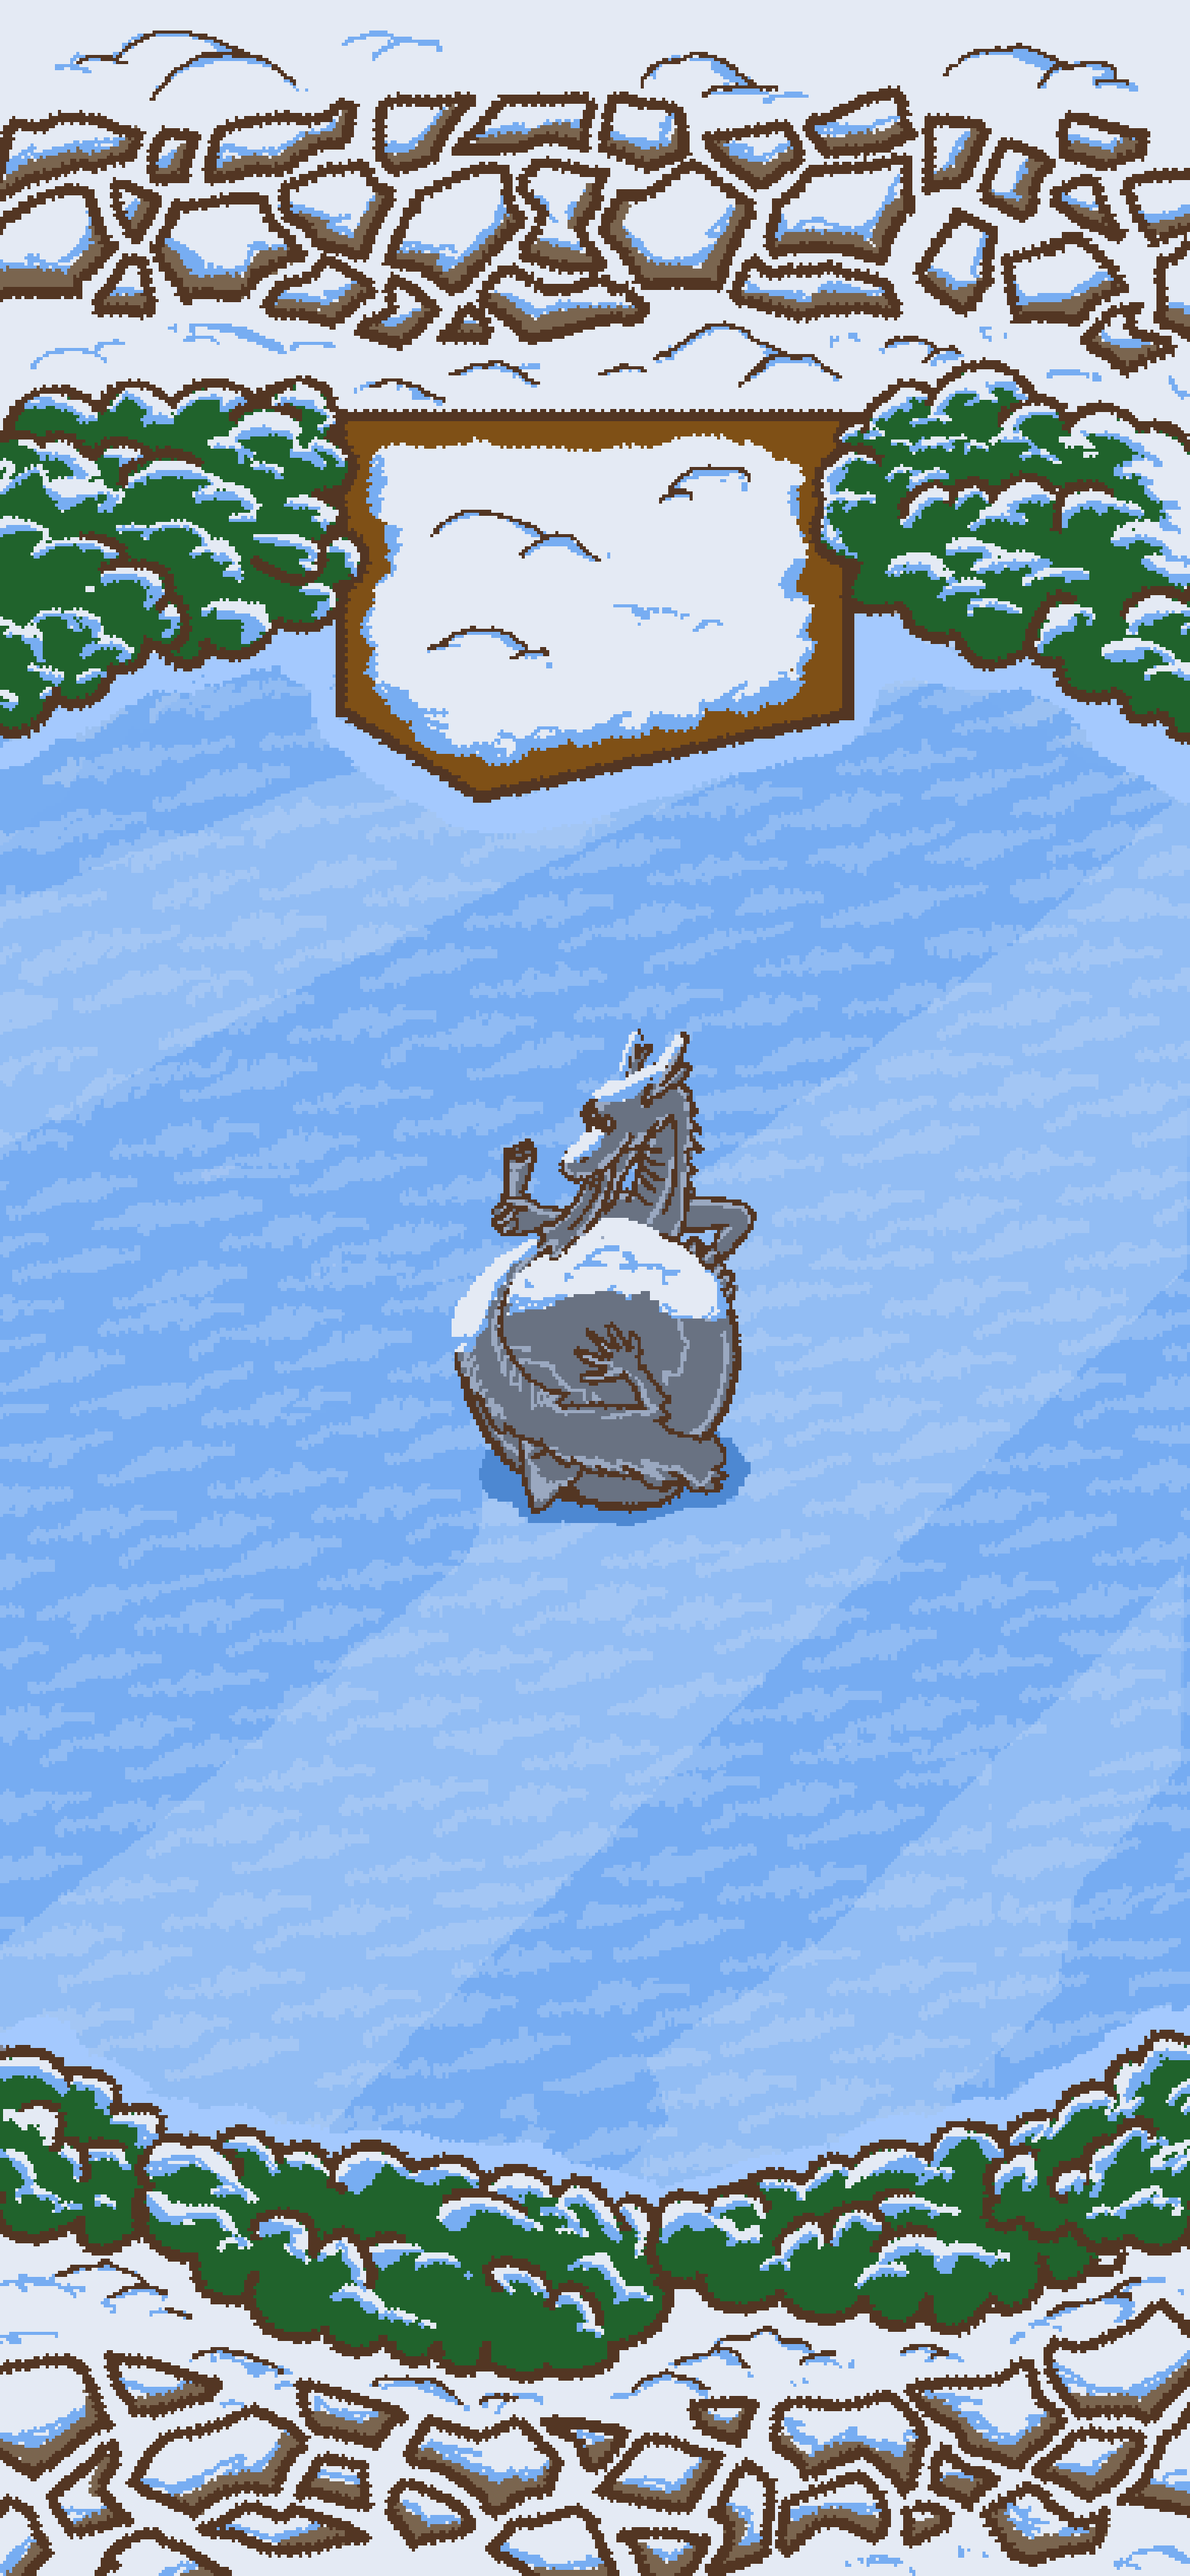
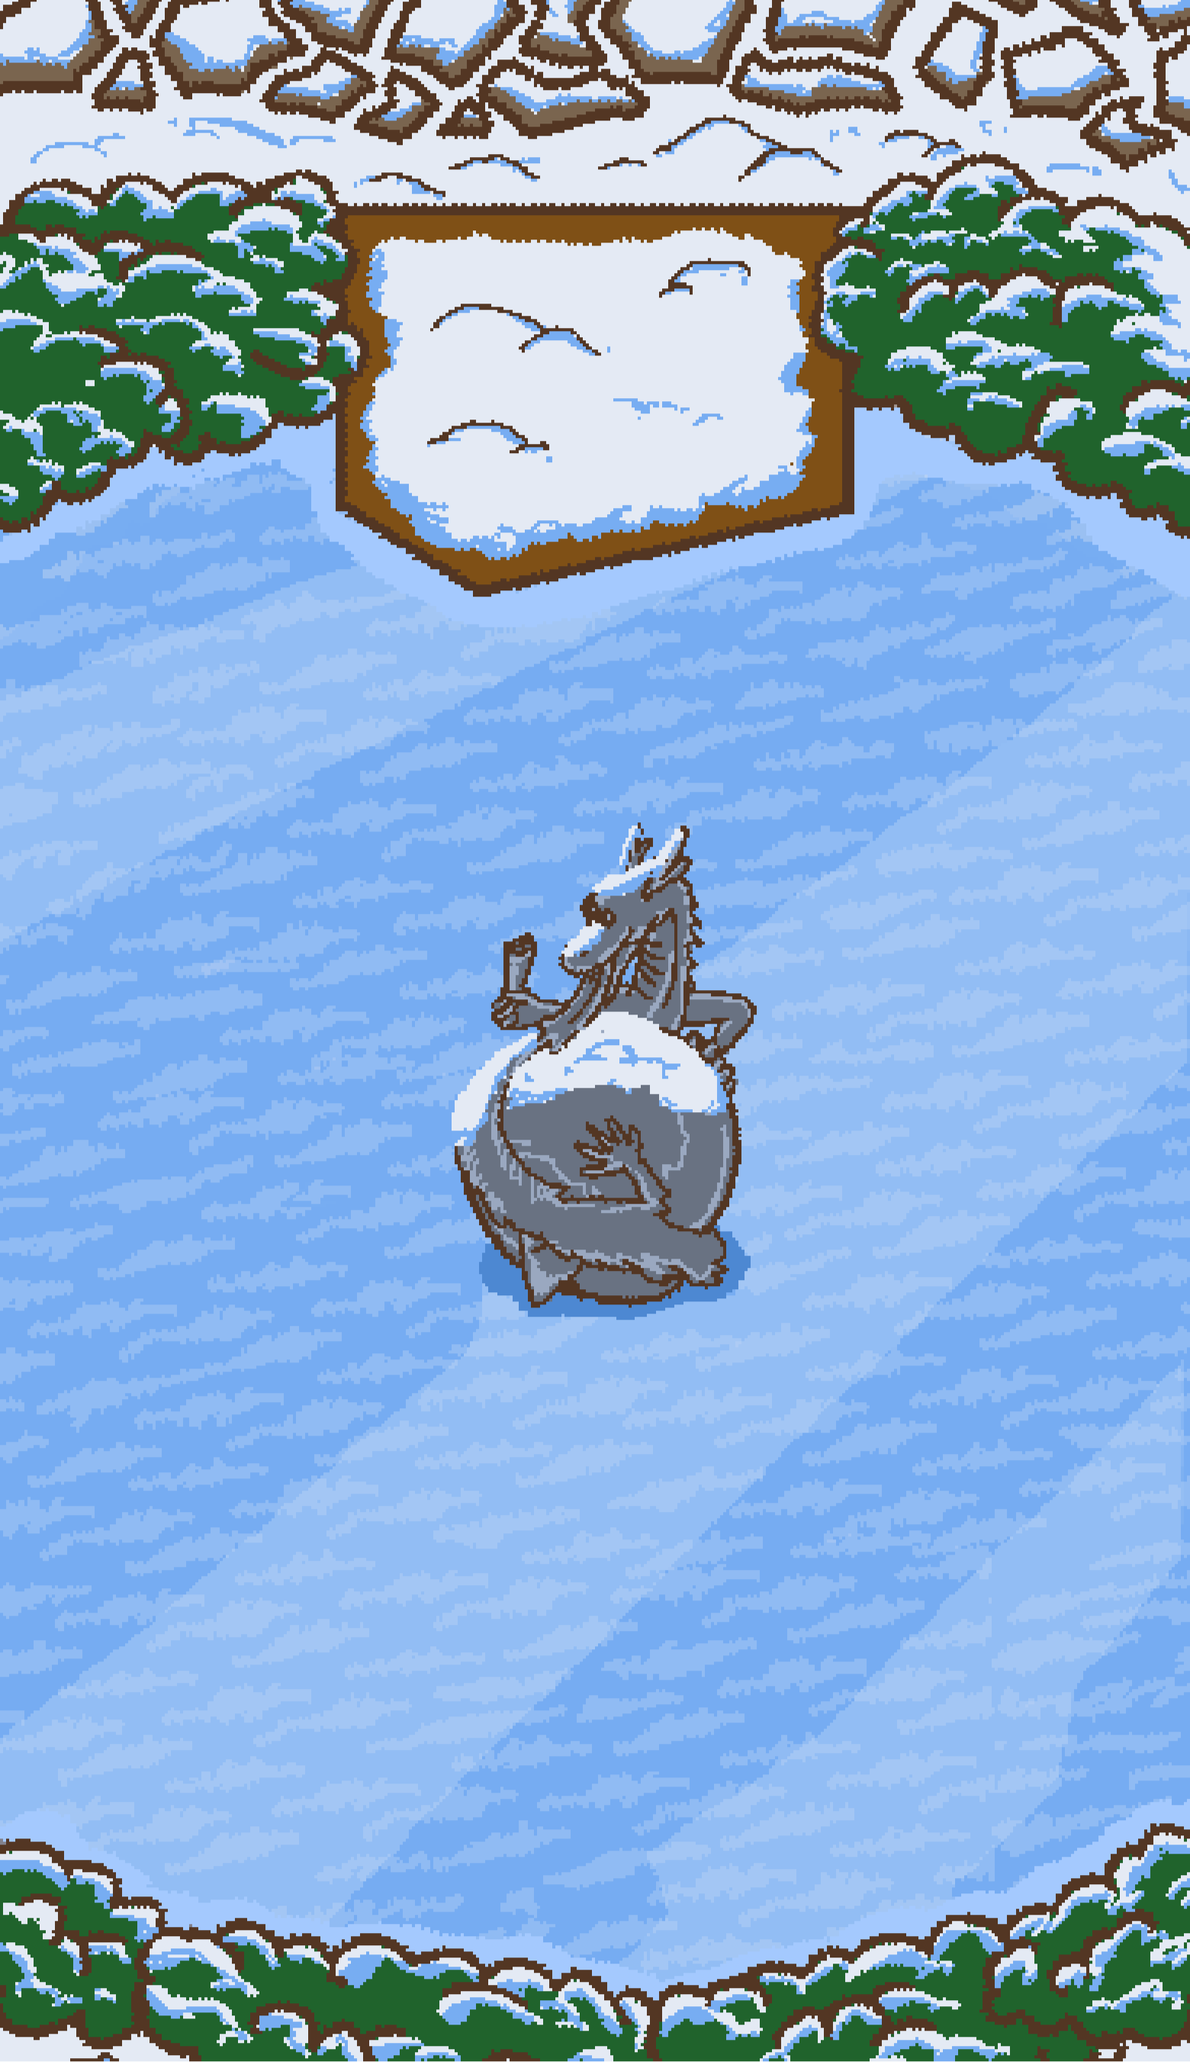
DESIGN : new배경, 눈사람 투명도 조절

diff --git a/src/services/locator.tsx b/src/services/locator.tsx
@@ -49,7 +49,7 @@ const Locator: React.FC<{ children?: React.ReactNode }> = ({ children }) => {
       {snowman && (
         <Snowman
           src="/images/mypage/emptySnowman.png"
-          style={{ top: `${snowman.posY}px`, left: `${snowman.posX}px`,position: "absolute" }}
+          style={{ top: `${snowman.posY}px`, left: `${snowman.posX}px`,position: "absolute",opacity: "0.8" }}
         ></Snowman>
       )}
       {children}
